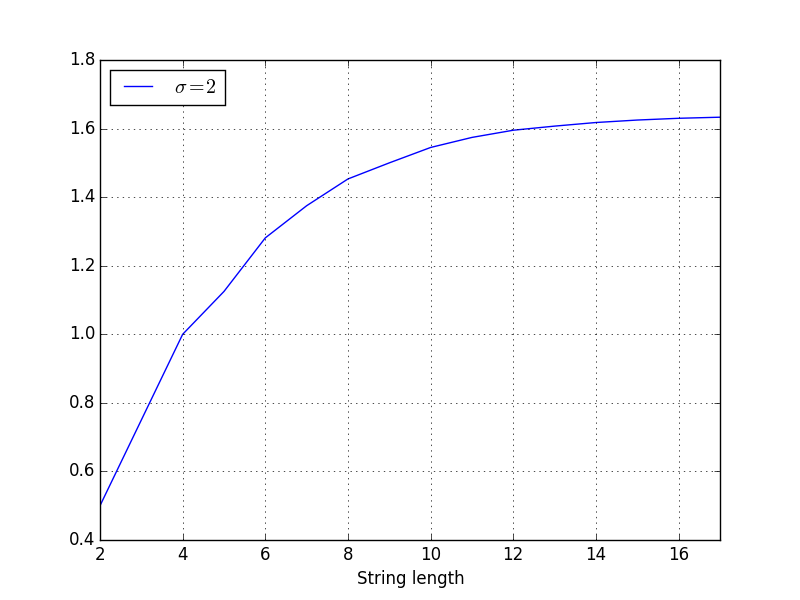
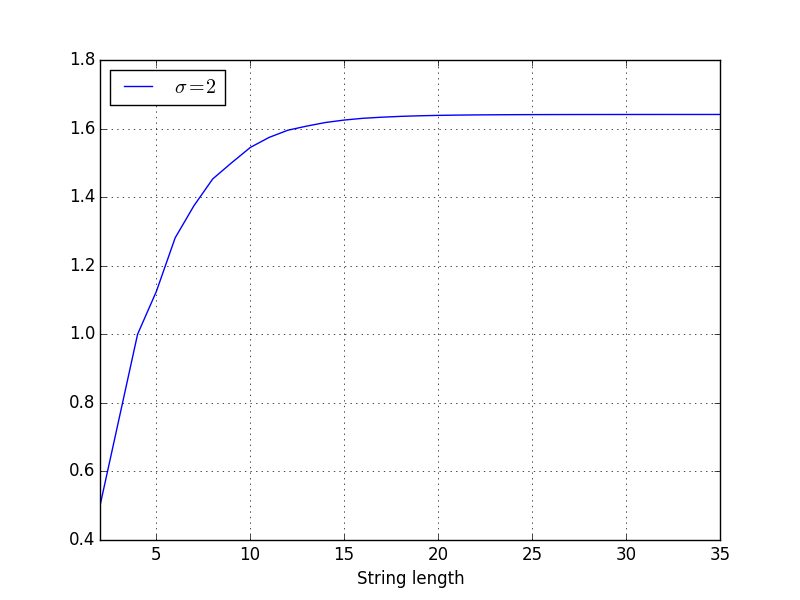
more data

diff --git a/src/py/graph.py b/src/py/graph.py
@@ -21,16 +21,16 @@ if __name__ == '__main__':
             counts[alphabet_size][length] += diff
 
         print 'q', ' ', ' '.join(map(lambda x: str(x).rjust(6), counts[2]))
-        for alphabet_size in [3, 4, 5]:
+        for alphabet_size in [2]:
             lengths = sorted(counts[alphabet_size])
             values = map(lambda x: counts[alphabet_size].get(x) * 1.0 / alphabet_size ** x, lengths)
             print alphabet_size, ' ', ' '.join(map(lambda x: '{:.3f}'.format(x).rjust(6), values))
             pl.plot(lengths, values, label='$\sigma = {}$'.format(alphabet_size))
-            pl.axes().set_xlim(2, 17)
+            pl.axes().set_xlim(2, 35)
         pl.legend(loc=2)
         pl.grid()
         pl.xlabel('String length')
-        pl.savefig('length_minus_min_period_3_4_5.png')
+        pl.savefig('length_minus_min_period_2.png')
 
     # with open('../../result_alphabets_borderless.txt') as fd:
     #     reader = csv.reader(fd, delimiter=' ')
